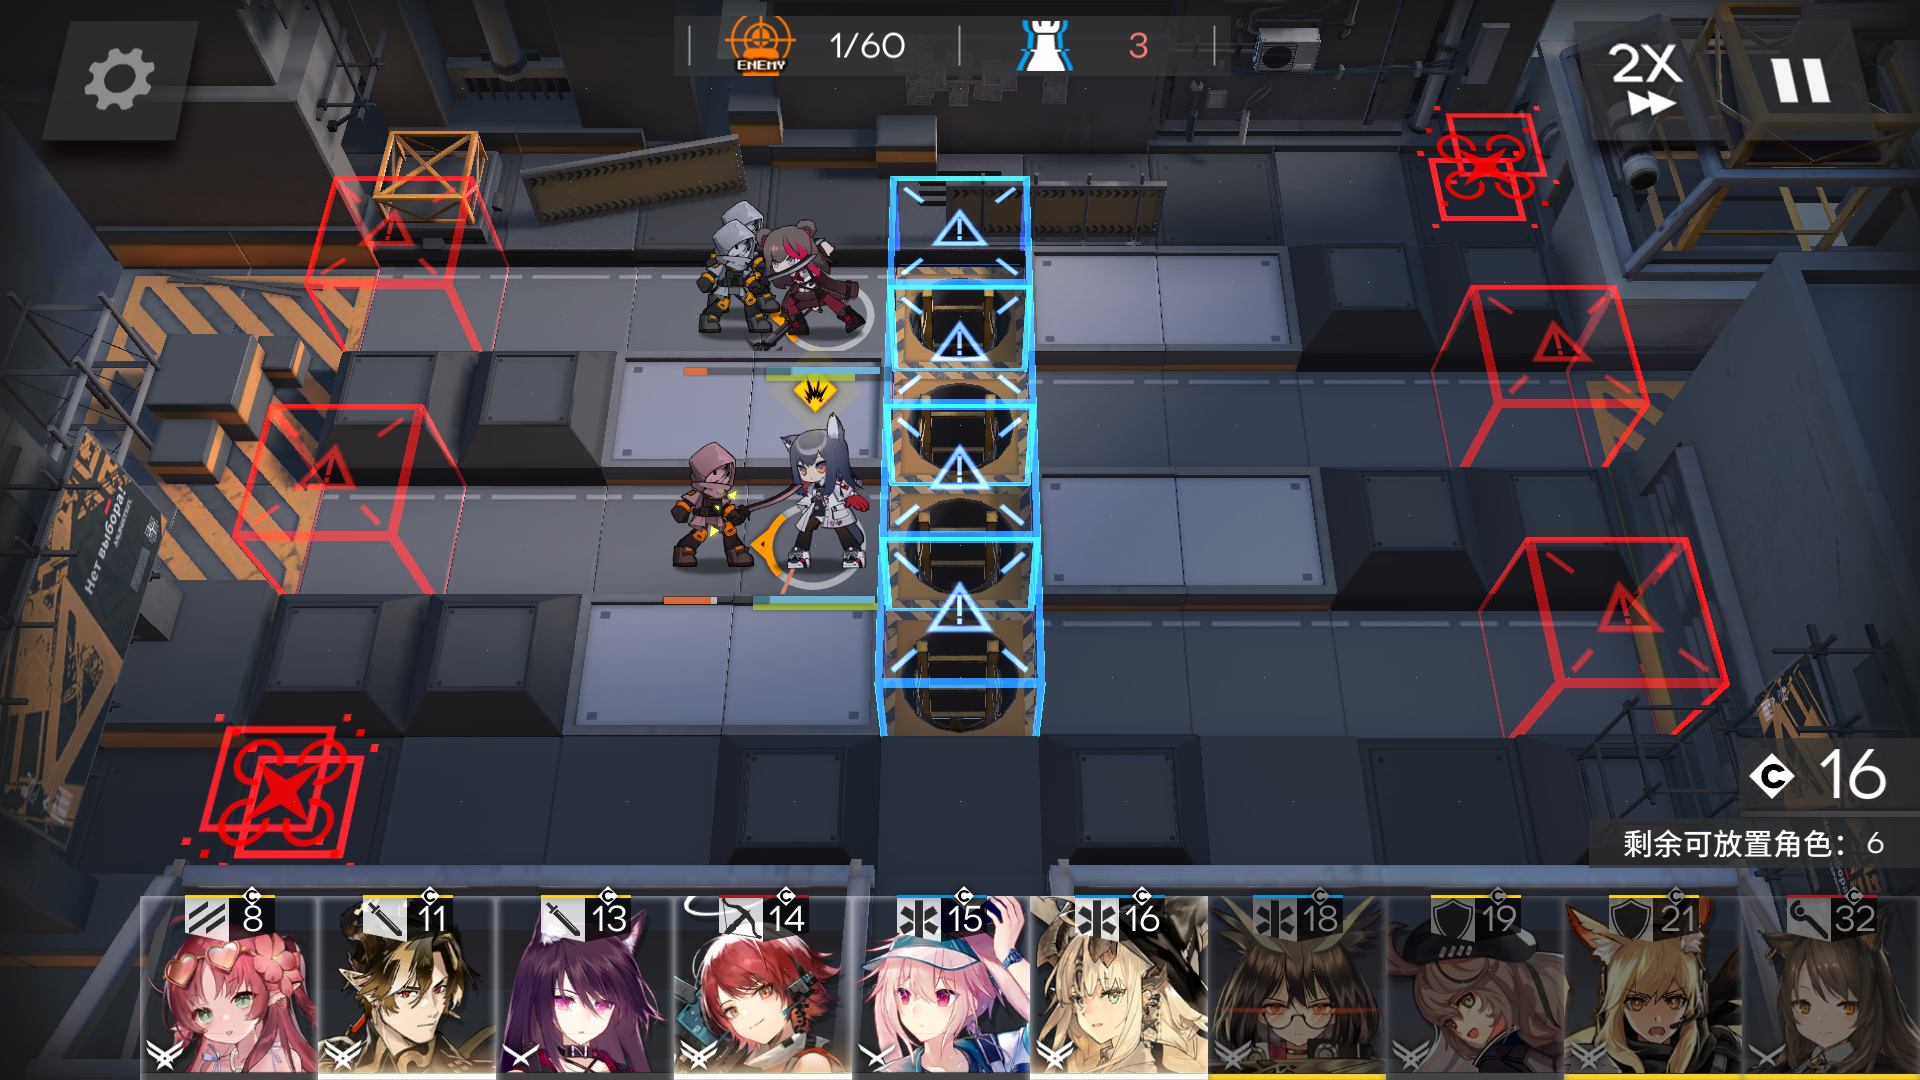
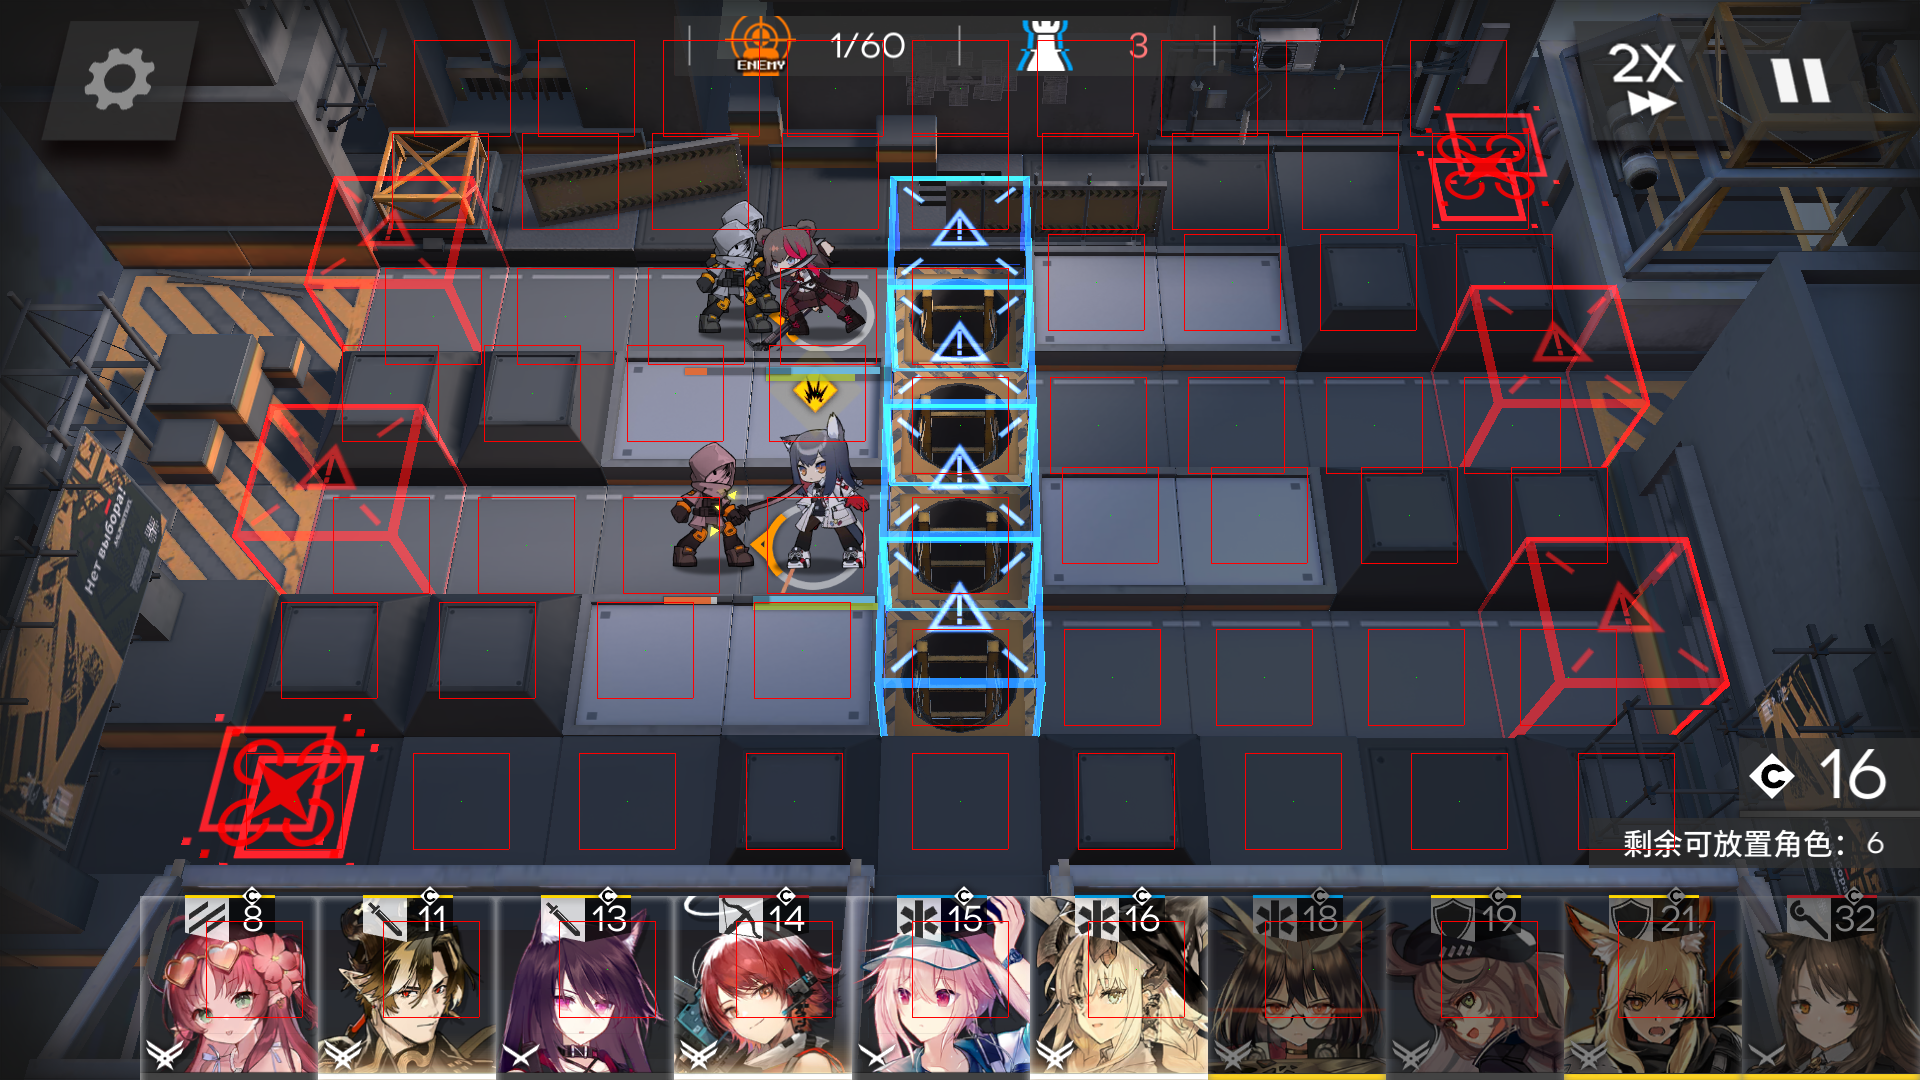
added cropped direction box image

diff --git a/packages/aah-resource/src/types.rs b/packages/aah-resource/src/types.rs
@@ -102,15 +102,56 @@ pub enum BuildableType {
 
 #[cfg(test)]
 mod test {
-    use image::{GenericImage, Rgba};
+    use image::{DynamicImage, GenericImage, Rgba};
 
     use super::{HeightType, Level};
 
-    #[test]
-    fn draw_tile_centers() {
-        let level = serde_json::from_str::<Level>(&LS_6).unwrap();
-        let mut image = image::open("./assets/in_battle.png").unwrap();
+    fn draw_box(
+        image: &mut DynamicImage,
+        x: i32,
+        y: i32,
+        width: u32,
+        height: u32,
+        rgba_u8: [u8; 4],
+    ) {
+        for dx in 0..width {
+            let px = x + dx as i32;
+            let py1 = y;
+            let py2 = y + height as i32;
 
+            if px >= 0 && py1 >= 0 && px < image.width() as i32 && py2 < image.height() as i32 {
+                image.put_pixel(px as u32, py1 as u32, Rgba(rgba_u8));
+            }
+            if px >= 0 && py2 >= 0 && px < image.width() as i32 && py2 < image.height() as i32 {
+                image.put_pixel(px as u32, py2 as u32, Rgba(rgba_u8));
+            }
+        }
+
+        for dy in 0..height {
+            let py = y + dy as i32;
+            let px1 = x;
+            let px2 = x + width as i32;
+
+            if px1 >= 0 && py >= 0 && px1 < image.width() as i32 && py < image.height() as i32 {
+                image.put_pixel(px1 as u32, py as u32, Rgba(rgba_u8));
+            }
+            if px2 >= 0 && py >= 0 && px2 < image.width() as i32 && py < image.height() as i32 {
+                image.put_pixel(px2 as u32, py as u32, Rgba(rgba_u8));
+            }
+        }
+        // for dx in 0..width {
+        //     for dy in 0..=height {
+        //         let px = x + dx as i32;
+        //         let py = y + dy as i32;
+        //         // 边界检查
+        //         if px >= 0 && py >= 0 && px < image.width() as i32 && py < image.height() as i32 {
+        //             image.put_pixel(px as u32, py as u32, Rgba(rgba_u8));
+        //         }
+        //     }
+        // }
+    }
+
+    fn draw_tile_centers(image: &mut DynamicImage, level: &Level) {
         for i in 0..level.height {
             for j in 0..level.width {
                 let tile_world_pos = level.tile_world_pos(i, j);
@@ -126,6 +167,69 @@ mod test {
                 image.put_pixel(x, y, Rgba([0, 255, 0, 255]))
             }
         }
+    }
+
+    fn draw_direction_box(image: &mut DynamicImage, level: &Level) {
+        for i in 0..level.height {
+            for j in 0..level.width {
+                let tile_world_pos = level.tile_world_pos(i, j);
+                let tile_screen_pos = level.calc_tile_screen_pos(i, j, false);
+                println!(
+                    "({i}, {j}): world {:?}, screen {:?}",
+                    tile_world_pos, tile_screen_pos
+                );
+                let (x, y) = (
+                    tile_screen_pos.0.round() as u32,
+                    tile_screen_pos.1.round() as u32,
+                );
+                let x = x as i32 - 48;
+                let y = y as i32 - 48;
+                draw_box(image, x, y, 96, 96, [255, 0, 0, 255]);
+            }
+        }
+    }
+
+    fn crop_direction_box(image: &DynamicImage, level: &Level, y: u32, x: u32) -> image::DynamicImage {
+        let tile_screen_pos = level.calc_tile_screen_pos(y, x, false);
+        let (x, y) = (
+            tile_screen_pos.0.round() as u32 - 48,
+            tile_screen_pos.1.round() as u32 - 48,
+        );
+        image.crop_imm(x, y, 96, 96)
+    }
+
+    #[test]
+    fn cut() {
+        let level = serde_json::from_str::<Level>(&LS_6).unwrap();
+        let image = image::open("./assets/LS-6_0.png").unwrap();
+        crop_direction_box(&image, &level, 2, 3).save("./assets/output/LS-6_0_left0.png").unwrap();
+        crop_direction_box(&image, &level, 3, 3).save("./assets/output/LS-6_0_right0.png").unwrap();
+        crop_direction_box(&image, &level, 4, 3).save("./assets/output/LS-6_0_left1.png").unwrap();
+        crop_direction_box(&image, &level, 5, 3).save("./assets/output/LS-6_0_up0.png").unwrap();
+        crop_direction_box(&image, &level, 3, 4).save("./assets/output/LS-6_0_right1.png").unwrap();
+        crop_direction_box(&image, &level, 4, 4).save("./assets/output/LS-6_0_right2.png").unwrap();
+        crop_direction_box(&image, &level, 5, 4).save("./assets/output/LS-6_0_right3.png").unwrap();
+        crop_direction_box(&image, &level, 4, 5).save("./assets/output/LS-6_0_left2.png").unwrap();
+
+        let image = image::open("./assets/LS-6_1.png").unwrap();
+        crop_direction_box(&image, &level, 2, 3).save("./assets/output/LS-6_1_left0.png").unwrap();
+        crop_direction_box(&image, &level, 3, 3).save("./assets/output/LS-6_1_right0.png").unwrap();
+        crop_direction_box(&image, &level, 4, 3).save("./assets/output/LS-6_1_left1.png").unwrap();
+        crop_direction_box(&image, &level, 5, 3).save("./assets/output/LS-6_1_up0.png").unwrap();
+        crop_direction_box(&image, &level, 3, 4).save("./assets/output/LS-6_1_right1.png").unwrap();
+        crop_direction_box(&image, &level, 4, 4).save("./assets/output/LS-6_1_right2.png").unwrap();
+        crop_direction_box(&image, &level, 5, 4).save("./assets/output/LS-6_1_right3.png").unwrap();
+        crop_direction_box(&image, &level, 4, 5).save("./assets/output/LS-6_1_left2.png").unwrap();
+    }
+
+    #[test]
+    fn fooo() {
+        let level = serde_json::from_str::<Level>(&LS_6).unwrap();
+        let mut image = image::open("./assets/in_battle.png").unwrap();
+
+        draw_tile_centers(&mut image, &level);
+        draw_direction_box(&mut image, &level);
+
         image.save("./assets/in_battle_drawed.png").unwrap();
     }
 
